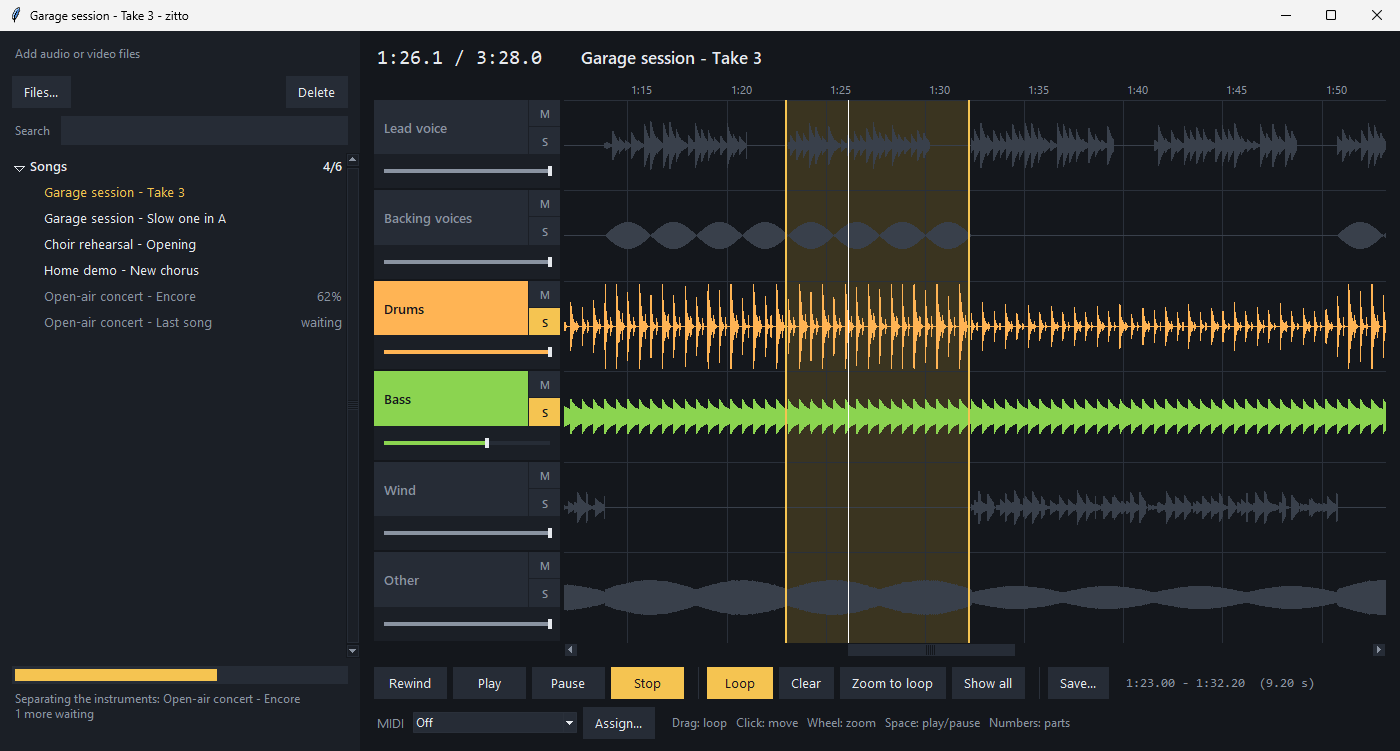
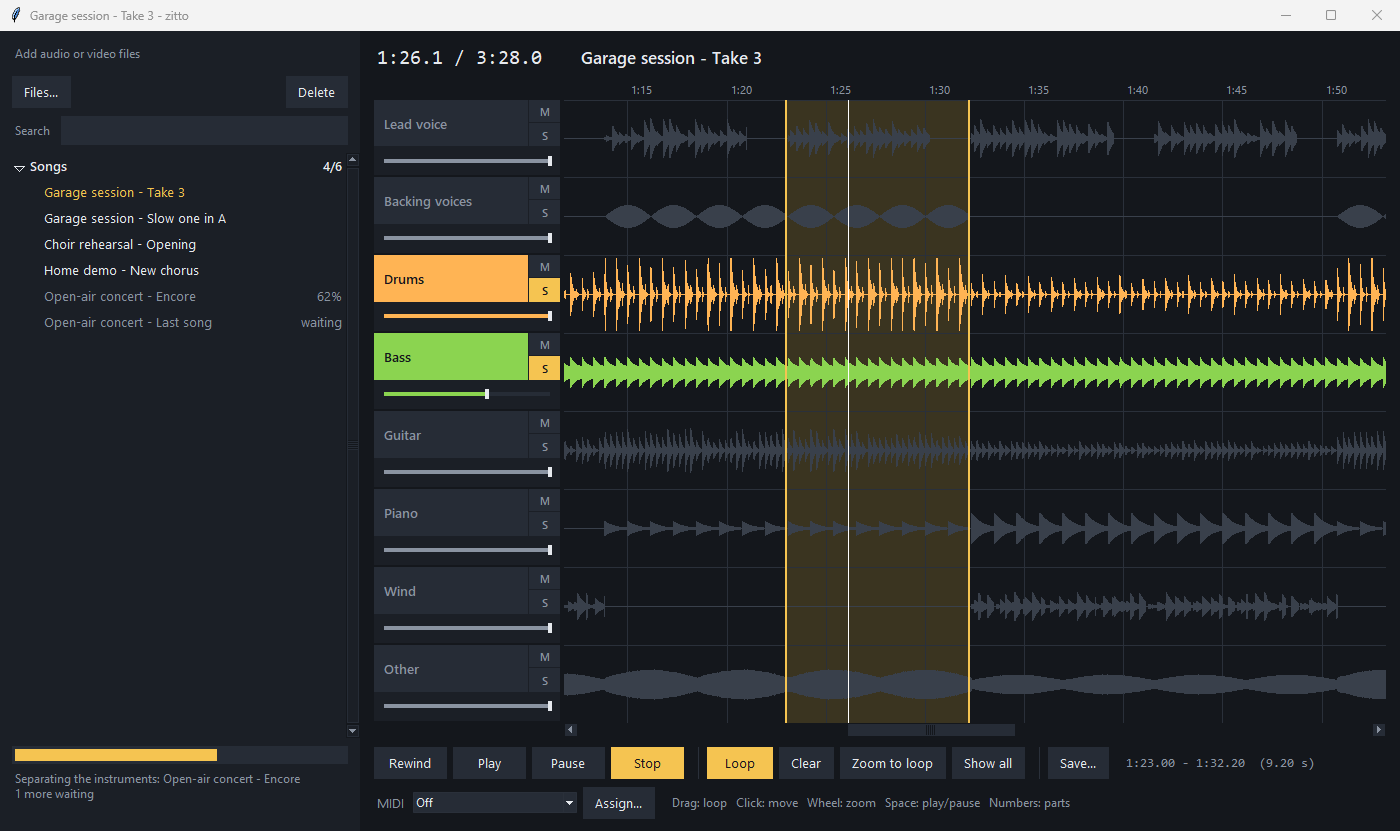
Guitar and piano: better models by default
BS-Roformer-SW finds the voice, drums, bass, guitar and piano, the becruily
karaoke model the lead voice. How they can be used is not known: the README
and NOTICE.md say so. ZITTO_MODELS=stated keeps the models of 0.1.0, whose
authors state their terms.

A model that is skipped is no longer announced as being downloaded.

diff --git a/docs/index.html b/docs/index.html
@@ -11,7 +11,7 @@
   color-scheme: dark;
   --bg: #14171c; --panel: #1b1f26; --raised: #262c36; --edge: #2f3641;
   --text: #e6e9ee; --dim: #a3abb8; --accent: #f5c451;
-  --lead: #ff7a90; --backing: #ff9ecb; --drums: #ffb454; --bass: #8bd450; --wind: #5eead4; --other: #9fb0c3;
+  --lead: #ff7a90; --backing: #ff9ecb; --drums: #ffb454; --bass: #8bd450; --guitar: #4cc9f0; --piano: #b794f6; --wind: #5eead4; --other: #9fb0c3;
   --sans: "Segoe UI Variable Text", "Segoe UI", system-ui, -apple-system, Roboto, sans-serif;
   --display: "Segoe UI Variable Display", "Segoe UI", system-ui, -apple-system, Roboto, sans-serif;
   --mono: Consolas, "Cascadia Mono", ui-monospace, Menlo, monospace;
@@ -71,7 +71,7 @@ pre { background: var(--panel); border: 1px solid var(--edge); margin: 0; paddin
       <p class="lede">Separates a song into its parts, plays it with each part switched on and off live, and saves the mix you hear. <span class="word">In Italian, <em>zitto</em> means hush.</span></p>
     </div>
     <figure>
-      <img src="images/player.png" width="1400" height="751" alt="The window of zitto: six songs on the left, one of them being separated; on the right the waveforms of lead voice, backing voices, drums, bass, wind and other, with the lead voice muted and a loop selected.">
+      <img src="images/player.png" width="1400" height="831" alt="The window of zitto: six songs on the left, one of them being separated; on the right the waveforms of lead voice, backing voices, drums, bass, guitar, piano, wind and other, with the lead voice muted and a loop selected.">
       <figcaption>The lead voice is muted, a loop runs from 1:14 to 1:51, and another song is being separated in the background. Songs and sound in these pictures are made up.</figcaption>
     </figure>
   </header>
@@ -83,6 +83,8 @@ pre { background: var(--panel); border: 1px solid var(--edge); margin: 0; paddin
       <li style="--c: var(--backing)"><span class="name">Backing voices</span><span class="m" aria-hidden="true">M</span><p>Kept apart from the lead, so the choir can stay.</p></li>
       <li style="--c: var(--drums)"><span class="name">Drums</span><span class="m" aria-hidden="true">M</span><p>Soloed with the bass, to hear how they lock together.</p></li>
       <li style="--c: var(--bass)"><span class="name">Bass</span><span class="m" aria-hidden="true">M</span><p>Each part has its own volume.</p></li>
+      <li style="--c: var(--guitar)"><span class="name">Guitar</span><span class="m" aria-hidden="true">M</span><p>Muted, to play it yourself. All the guitars are one part.</p></li>
+      <li style="--c: var(--piano)"><span class="name">Piano</span><span class="m" aria-hidden="true">M</span><p>Soloed, to work out the chords.</p></li>
       <li style="--c: var(--wind)"><span class="name">Wind</span><span class="m" aria-hidden="true">M</span><p>Sax, flute and brass.</p></li>
       <li style="--c: var(--other)"><span class="name">Other</span><span class="m" aria-hidden="true">M</span><p>Everything else. All the parts together are the original.</p></li>
     </ul>
@@ -90,7 +92,7 @@ pre { background: var(--panel); border: 1px solid var(--edge); margin: 0; paddin
 
   <section class="two">
     <figure>
-      <img src="images/loop.png" width="1400" height="751" alt="Drums and bass soloed, with the waveform zoomed on a loop of nine seconds.">
+      <img src="images/loop.png" width="1400" height="831" alt="Drums and bass soloed, with the waveform zoomed on a loop of nine seconds.">
       <figcaption>Drums and bass alone, zoomed on a loop of 9.2 seconds.</figcaption>
     </figure>
     <div>
@@ -126,13 +128,13 @@ pre { background: var(--panel); border: 1px solid var(--edge); margin: 0; paddin
       <table>
         <thead><tr><th>Model</th><th>Finds</th><th>Size</th><th>Terms</th></tr></thead>
         <tbody>
-          <tr><td><a href="https://github.com/Anjok07/ultimatevocalremovergui">UVR-MDX-NET Main</a></td><td>voice</td><td class="size">67 MB</td><td>MIT, with credit to UVR</td></tr>
-          <tr><td><a href="https://zenodo.org/records/5069601">Open-Unmix UMX-L</a></td><td>drums, bass</td><td class="size">452 MB</td><td>CC BY-NC-SA 4.0</td></tr>
-          <tr><td><a href="https://github.com/Anjok07/ultimatevocalremovergui">UVR 6_HP-Karaoke</a></td><td>lead voice</td><td class="size">127 MB</td><td>MIT, with credit to UVR</td></tr>
+          <tr><td><a href="https://huggingface.co/enerjazzer/BS-ROFO-SW-Fixed">BS-Roformer-SW</a></td><td>voice, drums, bass, guitar, piano</td><td class="size">699 MB</td><td>unknown</td></tr>
+          <tr><td><a href="https://huggingface.co/becruily/mel-band-roformer-karaoke">Mel-Roformer Karaoke (becruily)</a></td><td>lead and backing voices</td><td class="size">1719 MB</td><td>not stated</td></tr>
           <tr><td><a href="https://github.com/Anjok07/ultimatevocalremovergui">UVR 17_HP-Wind_Inst</a></td><td>wind</td><td class="size">224 MB</td><td>MIT, with credit to UVR</td></tr>
         </tbody>
       </table>
     </div>
+    <p>The author of BS-Roformer-SW is unknown, and that of the karaoke model does not say how it can be used. zitto can use only models with stated terms instead, with lower quality and without guitar and piano: the README explains how.</p>
     <p>The separation is an estimate. Traces of a part can remain in the others.</p>
   </section>
 

diff --git a/tests/test_library.py b/tests/test_library.py
@@ -10,7 +10,7 @@ import pytest
 
 from zitto import audio, library, models, remover, settings, source, worker
 from zitto.mixer import FADE, Mixer, mixdown
-from zitto.models import BAND, LEAD, VOICE, WIND
+from zitto.models import BAND, FULL, LEAD, STATED_LEAD, VOICE, WIND
 from zitto.targets import resolve
 from test_zitto import FakeEngine
 from test_player import render
@@ -18,7 +18,7 @@ from test_player import render
 LINK = "https://songs.example/alpha"
 OTHER = "https://songs.example/beta"
 LIST = "https://songs.example/list/one"
-SHARES = {"voice": 0.4, "drums": 0.2, "bass": 0.1, "lead": 0.75, "wind": 0.5}
+SHARES = {"voice": 0.4, "drums": 0.2, "bass": 0.1, "guitar": 0.05, "piano": 0.05, "lead": 0.75, "wind": 0.5}
 
 pytestmark = pytest.mark.usefixtures("links")
 
@@ -165,7 +165,18 @@ def test_voices_come_from_the_voice_and_wind_from_what_is_left(tmp_path):
     mix = np.full((100, 2), 0.4, np.float32)
     fake = engine()
     parts = worker.split(mix, fake, tmp_path, lambda s: None)
-    assert [c[0] for c in fake.calls] == [VOICE, BAND, LEAD, WIND]
+    assert [c[0] for c in fake.calls] == [FULL, LEAD, WIND] and tuple(parts) == models.NAMES
+    np.testing.assert_allclose(fake.calls[1][2], mix * 0.4, rtol=1e-5)
+    np.testing.assert_allclose(fake.calls[2][2], mix * 0.2, rtol=1e-5)
+    np.testing.assert_allclose(sum(parts.values()), mix, rtol=1e-5)
+
+
+def test_several_models_work_each_on_what_the_others_left(tmp_path, monkeypatch):
+    monkeypatch.setenv("ZITTO_MODELS", "stated")
+    mix = np.full((100, 2), 0.4, np.float32)
+    fake = engine()
+    parts = worker.split(mix, fake, tmp_path, lambda s: None)
+    assert [c[0] for c in fake.calls] == [VOICE, BAND, STATED_LEAD, WIND]
     np.testing.assert_allclose(fake.calls[1][2], mix * 0.6, rtol=1e-5)  # without the voice
     np.testing.assert_allclose(fake.calls[2][2], mix * 0.4, rtol=1e-5)
     np.testing.assert_allclose(fake.calls[3][2], mix * 0.6 * 0.7, rtol=1e-5)
@@ -174,8 +185,10 @@ def test_voices_come_from_the_voice_and_wind_from_what_is_left(tmp_path):
 
 def test_models_do_not_run_on_silence(tmp_path):
     fake = FakeEngine({n: (lambda m: m * 0) for n in SHARES} | {"drums": lambda m: m})
-    parts = worker.split(np.full((100, 2), 0.4, np.float32), fake, tmp_path, lambda s: None)
-    assert [c[0] for c in fake.calls] == [VOICE, BAND] and not parts["lead"].any()
+    said = []
+    parts = worker.split(np.full((100, 2), 0.4, np.float32), fake, tmp_path, said.append)
+    assert [c[0] for c in fake.calls] == [FULL] and not parts["lead"].any()
+    assert said == ["Separating the instruments"]
 
 
 def test_loud_parts_do_not_clip(song_file, tmp_path):

diff --git a/zitto/models.py b/zitto/models.py
@@ -6,6 +6,7 @@ authors or the audio-separator project published it. See NOTICE.md for the credi
 
 from __future__ import annotations
 
+import os
 from dataclasses import dataclass, field
 
 from . import plugins
@@ -37,16 +38,28 @@ class ModelSet:
 _UVR = {"terms": "MIT, with credit to UVR and its developers (as their README asks)",
         "page": "https://github.com/Anjok07/ultimatevocalremovergui"}
 
+# The best ones, by far. Their terms are not known: see NOTICE.md.
+FULL = Model("BS-Roformer-SW", "BS-Roformer-SW.ckpt",
+             {"voice": "vocals", "drums": "drums", "bass": "bass", "guitar": "guitar", "piano": "piano",
+              "other": "other"},
+             "unknown, as its author", "https://huggingface.co/enerjazzer/BS-ROFO-SW-Fixed")
+# Each moment twice. Its own choice is 8, over three times slower for a difference 36 dB below the result.
+LEAD = Model("Mel-Roformer Karaoke (becruily)", "mel_band_roformer_karaoke_becruily.ckpt", {"lead": "Vocals"},
+             "not stated", "https://huggingface.co/becruily/mel-band-roformer-karaoke", overlap=2)
+WIND = Model("UVR 17_HP-Wind_Inst", "17_HP-Wind_Inst-UVR.pth", {"wind": "Woodwinds"}, **_UVR)
+
 VOICE = Model("UVR-MDX-NET Main", "UVR_MDXNET_Main.onnx", {"voice": "Vocals"}, **_UVR)
 BAND = Model("Open-Unmix UMX-L", "umxl", {"drums": "drums", "bass": "bass", "other": "other"},
              "CC BY-NC-SA 4.0: not for commercial use", "https://zenodo.org/records/5069601", backend="openunmix")
-LEAD = Model("UVR 6_HP-Karaoke", "6_HP-Karaoke-UVR.pth", {"lead": "Vocals"}, **_UVR)
-WIND = Model("UVR 17_HP-Wind_Inst", "17_HP-Wind_Inst-UVR.pth", {"wind": "Woodwinds"}, **_UVR)
+STATED_LEAD = Model("UVR 6_HP-Karaoke", "6_HP-Karaoke-UVR.pth", {"lead": "Vocals"}, **_UVR)
 
-DEFAULT = ModelSet((VOICE, BAND), LEAD, WIND)
+DEFAULT = ModelSet((FULL,), LEAD, WIND)
+STATED = ModelSet((VOICE, BAND), STATED_LEAD, WIND)  # only models whose authors say how they can be used
 
 
 def current() -> ModelSet:
+    if os.environ.get("ZITTO_MODELS", "").lower() == "stated":
+        return STATED
     return plugins.model_set() or DEFAULT
 
 

diff --git a/tests/test_plugins.py b/tests/test_plugins.py
@@ -81,14 +81,27 @@ def test_a_ready_song_stays_when_its_plugin_is_gone(monkeypatch, links):
 
 # --- models --------------------------------------------------------------------------
 
-def test_the_default_models_say_their_terms():
-    chosen = models.current()
-    assert chosen is models.DEFAULT
+@pytest.mark.parametrize("chosen", [models.DEFAULT, models.STATED])
+def test_the_models_say_their_terms(chosen):
     for model in (*chosen.main, chosen.lead, chosen.wind):
         assert model.terms and model.page.startswith("https://")
 
 
-def test_only_the_parts_the_models_can_find_are_offered():
+def test_the_default_models_find_every_part():
+    assert models.current() is models.DEFAULT and models.parts() == models.NAMES
+    assert targets.available() == targets.TARGETS
+
+
+def test_models_with_stated_terms_can_be_asked_for(monkeypatch):
+    monkeypatch.setattr(plugins, "model_set", lambda: models.DEFAULT)
+    monkeypatch.setenv("ZITTO_MODELS", "Stated")  # wins over a plugin too
+    assert models.current() is models.STATED
+    chosen = (*models.STATED.main, models.STATED.lead, models.STATED.wind)
+    assert not any(m.terms.startswith(("unknown", "not stated")) for m in chosen)
+
+
+def test_only_the_parts_the_models_can_find_are_offered(monkeypatch):
+    monkeypatch.setenv("ZITTO_MODELS", "stated")
     assert models.parts() == ("lead", "backing", "drums", "bass", "wind", "other")
     assert [t.key for t in targets.available()] == ["voice", "lead-voice", "drums", "bass", "wind", "other"]
     with pytest.raises(targets.UnknownTarget, match="Choose from: voice"):

diff --git a/tests/test_zitto.py b/tests/test_zitto.py
@@ -4,7 +4,7 @@ import numpy as np
 import pytest
 
 from zitto import audio, remover, source
-from zitto.models import BAND, LEAD, VOICE
+from zitto.models import FULL, LEAD
 from zitto.targets import UnknownTarget, plan, resolve
 
 
@@ -47,7 +47,7 @@ def test_resolve_rejects(names):
 
 def test_plan_runs_each_model_once():
     steps = plan(resolve(["voice", "drums", "bass"]))
-    assert [(model, keys(group)) for model, group in steps] == [(VOICE, ["voice"]), (BAND, ["drums", "bass"])]
+    assert [(model, keys(group)) for model, group in steps] == [(FULL, ["voice", "drums", "bass"])]
 
 
 def test_subtract_leaves_the_rest_untouched(tmp_path):
@@ -66,7 +66,7 @@ def test_different_models_run_in_cascade(tmp_path):
     mix = np.full((100, 2), 0.4, dtype=np.float32)
     engine = FakeEngine({"lead": lambda m: m * 0.5, "drums": lambda m: m * 0.5})
     rest = remover.subtract(mix, resolve(["lead-voice", "drums"]), engine, tmp_path, lambda s: None)
-    assert [c[0] for c in engine.calls] == [LEAD, BAND]
+    assert [c[0] for c in engine.calls] == [LEAD, FULL]
     np.testing.assert_allclose(engine.calls[1][2], 0.2, rtol=1e-5)
     np.testing.assert_allclose(rest, 0.1, rtol=1e-5)
 

diff --git a/zitto/worker.py b/zitto/worker.py
@@ -29,11 +29,11 @@ SILENT = 1e-4
 def split(mix: np.ndarray, engine, workdir: Path, status: Status) -> dict[str, np.ndarray]:
     """All the parts of `mix`. They add up to it exactly."""
     def stems(audio_in, model, parts, text):
+        if np.abs(audio_in).max() < SILENT:  # nothing to look for, e.g. no voice at all
+            return {part: np.zeros_like(audio_in) for part in parts}
         if not engine.is_downloaded(model):
             status(f"Downloading a model (first time only): {model.name}")
         status(text)
-        if np.abs(audio_in).max() < SILENT:  # nothing to look for, e.g. no voice at all
-            return {part: np.zeros_like(audio_in) for part in parts}
         return engine.stems(audio_in, model, parts, workdir)
 
     models = current()

diff --git a/tests/test_window.py b/tests/test_window.py
@@ -217,7 +217,7 @@ def test_controls_act_where_they_are_drawn(window):
 
 def test_songs_can_have_different_parts(window):
     """Those separated with other models."""
-    few = models.parts()
+    few = ("lead", "backing", "drums", "bass", "wind", "other")
     first, second = make_song("a", "Alpha"), make_song("b", "Beta", names=few)
     app = window()
     p = app.player

diff --git a/tests/conftest.py b/tests/conftest.py
@@ -20,6 +20,7 @@ def no_plugins(monkeypatch):
     monkeypatch.setattr(plugins, "links", lambda: ())
     monkeypatch.setattr(plugins, "model_set", lambda: None)
     monkeypatch.setattr(plugins, "problems", [])
+    monkeypatch.delenv("ZITTO_MODELS", raising=False)
 
 
 class Site(LinkSource):

diff --git a/zitto/__init__.py b/zitto/__init__.py
@@ -1,3 +1,3 @@
 """Remove a voice or an instrument from an audio track."""
 
-__version__ = "0.1.0"
+__version__ = "0.2.0"

diff --git a/README.md b/README.md
@@ -30,8 +30,8 @@ Each song is separated only once. Close the window whenever you like: at the nex
 last song is there as you left it, with its parts, volumes and loop, and what was still
 waiting goes on.
 
-The parts: lead voice, backing voices, drums, bass, wind, other. All of them together are the
-original.
+The parts: lead voice, backing voices, drums, bass, guitar, piano, wind, other. All of them
+together are the original.
 
 ### Player
 
@@ -77,12 +77,24 @@ For removing something without opening the window. The result goes to `output\`:
     .\zitto.exe song.mp3 -o result.flac
     .\zitto.exe song.mp3 --player            open the window with this song
 
-Names (Italian ones too): `voice`, `lead-voice`, `drums`, `bass`, `wind`, `other`.
+Names (Italian ones too): `voice`, `lead-voice`, `drums`, `bass`, `guitar`, `piano`, `wind`,
+`other`.
 
 ## How it works
 
-Four models estimate the parts; what none of them recognises stays in "other". They are not
+Three models estimate the parts; what none of them recognises stays in "other". They are not
 part of zitto: each is downloaded to `models\` the first time it is needed.
+
+| Model | Used for | Size | Terms |
+| --- | --- | --- | --- |
+| [BS-Roformer-SW](https://huggingface.co/enerjazzer/BS-ROFO-SW-Fixed) | voice, drums, bass, guitar, piano | 0.7 GB | **unknown** |
+| [Mel-Roformer Karaoke (becruily)](https://huggingface.co/becruily/mel-band-roformer-karaoke) | lead and backing voices | 1.7 GB | **not stated** |
+| [UVR 17_HP-Wind_Inst](https://github.com/Anjok07/ultimatevocalremovergui) | wind | 0.2 GB | MIT, with credit to UVR |
+
+The first two were chosen for their quality, but how they can be used is not known: the author
+of the first is unknown, the author of the second does not say. Decide for yourself whether
+to use them. To have only models whose authors state their terms, set the environment variable
+`ZITTO_MODELS` to `stated`. The quality is lower, and guitar and piano stay in "other":
 
 | Model | Used for | Size | Terms |
 | --- | --- | --- | --- |
@@ -92,7 +104,7 @@ part of zitto: each is downloaded to `models\` the first time it is needed.
 | [UVR 17_HP-Wind_Inst](https://github.com/Anjok07/ultimatevocalremovergui) | wind | 0.2 GB | MIT, with credit to UVR |
 
 The separation is an estimate: traces of a part can remain in the others, and instruments
-that sound alike cannot be told apart.
+that sound alike (two guitars, for example) cannot be told apart.
 
 Songs are kept in `library\`, up to 17 MB per minute. To keep them elsewhere, set the
 environment variable `ZITTO_LIBRARY` to a folder.
@@ -112,7 +124,8 @@ The source is available, but this is not an "open source" licence as the OSI def
 those cannot forbid selling.
 
 The models and the libraries that setup.bat installs have terms of their own, listed in
-[NOTICE.md](NOTICE.md). Two of them are for non-commercial use only.
+[NOTICE.md](NOTICE.md). Those of two models are not known, and some are for non-commercial
+use only.
 
 Separating a song does not give any right on it. Copying, publishing or performing a recording
 made by others, or part of it, usually needs the permission of who holds its rights.

diff --git a/NOTICE.md b/NOTICE.md
@@ -10,13 +10,24 @@ sources to the computer of whoever installs zitto, each under its own terms.
 
 ## Models
 
-- **Ultimate Vocal Remover** (UVR-MDX-NET Main, 6_HP-Karaoke, 17_HP-Wind_Inst), by Anjok07 and
-  aufr33 and the other developers of UVR. Their README asks: "For all third-party application
+- **BS-Roformer-SW**. Author, origin and licence are unknown. The
+  [copy on Hugging Face](https://huggingface.co/enerjazzer/BS-ROFO-SW-Fixed) says "License:
+  unknown", and according to [another one](https://huggingface.co/elicwhite/bs-roformer-sw-6stem-onnx)
+  who first re-uploaded it was not involved in training it and does not know where it comes
+  from
+- **Mel-Roformer Karaoke**, by becruily. [Its page](https://huggingface.co/becruily/mel-band-roformer-karaoke)
+  states no licence
+- **Ultimate Vocal Remover** (17_HP-Wind_Inst; with `stated` also UVR-MDX-NET Main and
+  6_HP-Karaoke), by Anjok07 and aufr33 and the other developers of UVR. Their README asks: "For all third-party application
   developers who wish to use our models, please honor the MIT license by providing credit to
   UVR and its developers." https://github.com/Anjok07/ultimatevocalremovergui
-- **Open-Unmix UMX-L**, by Fabian-Robert Stöter, Stefan Uhlich, Antoine Liutkus and Yuki
-  Mitsufuji. Creative Commons Attribution Non Commercial Share Alike 4.0 International: not
+- **Open-Unmix UMX-L** (with `stated`), by Fabian-Robert Stöter, Stefan Uhlich, Antoine Liutkus
+  and Yuki Mitsufuji. Creative Commons Attribution Non Commercial Share Alike 4.0 International: not
   for commercial use. https://zenodo.org/records/5069601
+
+Whoever holds rights on a model and does not want it to be used here can open an issue in this
+repository: zitto will stop using it. To use only models whose authors state their terms, set
+the environment variable `ZITTO_MODELS` to `stated`.
 
 ## Libraries
 
